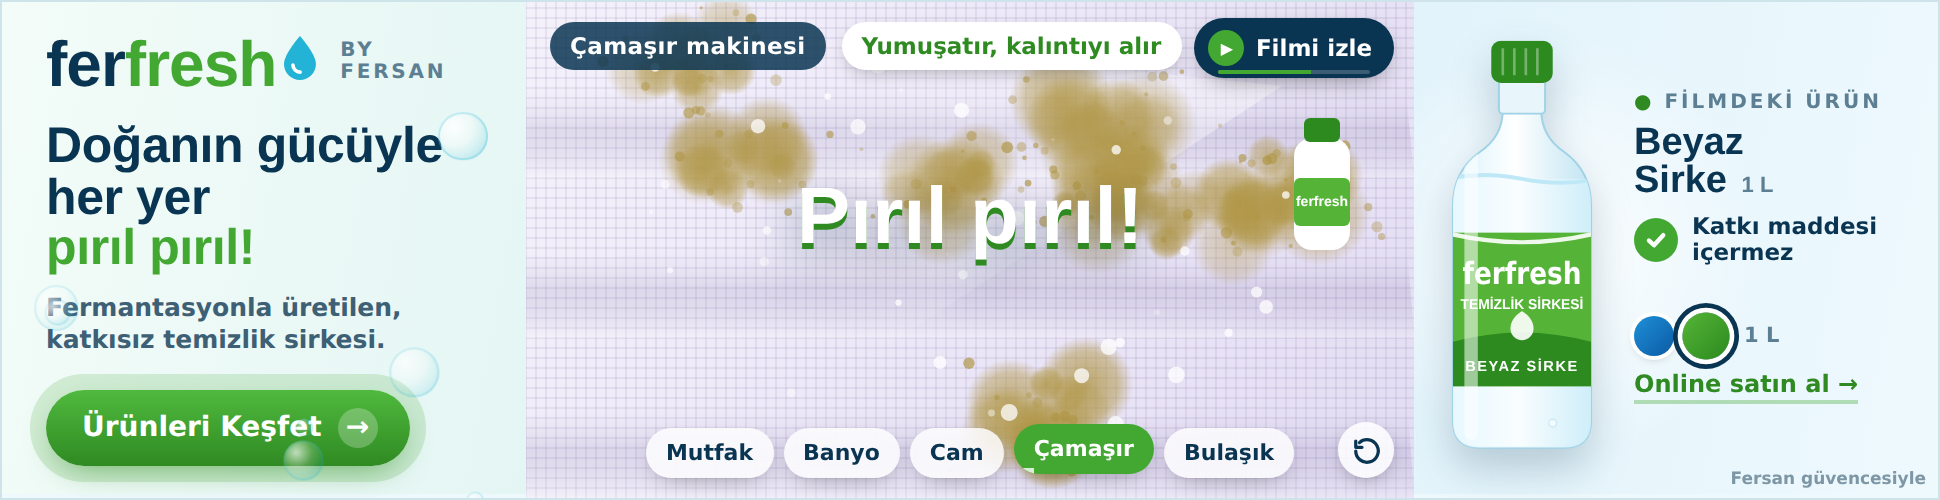
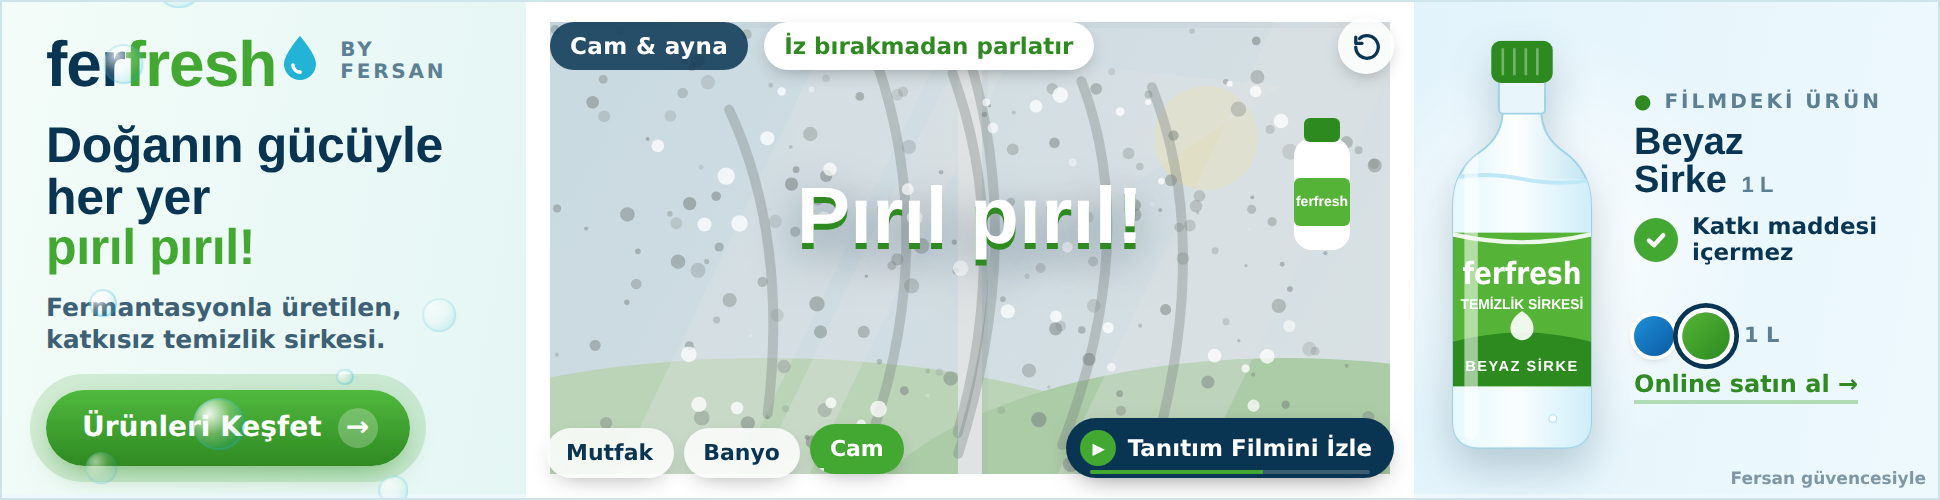
Ferfresh masthead: tanıtım filmi en fazla 3 bölüm (Mutfak, Banyo, Cam), 'Tanıtım Filmini İzle' butonu, sahne 1 buton yerleşimi
Claude-Session: https://claude.ai/code/session_01CRNQWQQrCXkKVvw3zbSMDp

diff --git a/ferfresh-masthead/index.html b/ferfresh-masthead/index.html
@@ -11,14 +11,14 @@
 <script>
 /* ==========================================================================
    FERFRESH – 970x250 İNTERAKTİF MASTHEAD
-   Tek bir KAMPANYA FİLMİ iki sahnede kesintisiz oynar:
+   Tek bir TANITIM FİLMİ (en fazla 3 bölüm) iki sahnede kesintisiz oynar:
 
    SAHNE 1 – Oyun: Ekran kirli gelir; kullanıcı sürükleyerek siler ve altta
-     oynayan kampanya filmini ortaya çıkarır. Oda sekmeleri filmin
+     oynayan tanıtım filmini ortaya çıkarır. Oda sekmeleri filmin
      bölümleridir (tıklayınca o bölüme atlar). Sağdaki ürün, filmde o an
      kullanılan ürünle eşleşir.
    GEÇİŞ – Köpüklü sünger silme efekti (otomatik: autoToVideosMs · elle:
-     "▶ Filmi izle" butonu). Film aynı saniyeden devam eder.
+     "▶ Tanıtım Filmini İzle" butonu). Film aynı saniyeden devam eder.
    SAHNE 2 – Film penceresi: Solda kampanya mesajı + "Keşfet"; sağda büyük
      film penceresi, bölüm listesi, tıklanabilir bölümlü zaman çubuğu ve
      "Bu sahnede: <ürün> · İncele" alışveriş etiketi.
@@ -37,16 +37,14 @@ var CONFIG = {
   fit: 'blur',                 // 'blur' (dikey kaynak) | 'cover' (yatay kurgu)
   autoToVideosMs: 15000,       // açılıştan kaç ms sonra film sahnesine geçilsin (0 = otomatik geçme)
   campaign: {
-    src: '',                   // tek parça kampanya filmi (mp4)
+    src: '',                   // tek parça tanıtım filmi (mp4)
     poster: '',
     duration: 0,               // boşsa videodan okunur
     chapterSec: 6,             // video yokken her bölümün yer tutucu süresi (sn)
-    chapters: [
+    chapters: [                // en fazla 3 bölüm
       { room:'mutfak',  title:'Tezgâhta yağ lekesi',   product:0, start:0,  src:'', poster:'' },
       { room:'banyo',   title:'Bataryada kireç',       product:0, start:6,  src:'', poster:'' },
-      { room:'cam',     title:'İz bırakmayan camlar',  product:1, start:12, src:'', poster:'' },
-      { room:'camasir', title:'Doğal yumuşaklık',      product:1, start:18, src:'', poster:'' },
-      { room:'bulasik', title:'Pırıl pırıl bardaklar', product:1, start:24, src:'', poster:'' }
+      { room:'cam',     title:'İz bırakmayan camlar',  product:1, start:12, src:'', poster:'' }
     ]
   },
   rooms: [
@@ -55,11 +53,7 @@ var CONFIG = {
     { id:'banyo',   label:'Banyo',   title:'Banyo & armatür',  claim:'Kireci kolayca giderir',       color:'#1fa6cc',
       pattern:'tile',   base:['#eef8fc','#d2eaf4'], grout:'#b5d6e5', stain:'160,150,118' },
     { id:'cam',     label:'Cam',     title:'Cam & ayna',       claim:'İz bırakmadan parlatır',       color:'#3c86dc',
-      pattern:'glass',  base:['#bfe6f7','#eef9fd'], grout:'#ffffff', stain:'120,128,126' },
-    { id:'camasir', label:'Çamaşır', title:'Çamaşır makinesi', claim:'Yumuşatır, kalıntıyı alır',    color:'#8a6bd0',
-      pattern:'fabric', base:['#f4f1fb','#e3ddf3'], grout:'#cfc6e8', stain:'176,150,70' },
-    { id:'bulasik', label:'Bulaşık', title:'Bulaşık makinesi', claim:'Bardak ve tabakları parlatır', color:'#43a832',
-      pattern:'plate',  base:['#2b7f9c','#1d5f78'], grout:'#ffffff', stain:'140,96,48' }
+      pattern:'glass',  base:['#bfe6f7','#eef9fd'], grout:'#ffffff', stain:'120,128,126' }
   ],
   products: [
     { name:'Karbonatlı<br>Temizlik Sirkesi', size:'500 ml', tag:'KARBONATLI', lab:'#1e90d8', lab2:'#0b5aa3', cap:'#0b5aa3' },
@@ -152,7 +146,7 @@ button{font:inherit;border:0;background:none;color:inherit;cursor:pointer}
 .cap .t{background:rgba(10,53,82,.85);color:#fff;font-weight:800;font-size:11.5px;padding:5px 10px;border-radius:999px;letter-spacing:.2px}
 .cap .c{background:#fff;color:var(--green2);font-weight:800;font-size:11.5px;padding:5px 10px;border-radius:999px;box-shadow:0 3px 10px -4px rgba(0,0,0,.4)}
 
-.rooms{position:absolute;left:0;right:0;bottom:10px;z-index:7;display:flex;justify-content:center;gap:5px;
+.rooms{position:absolute;left:10px;bottom:10px;z-index:7;display:flex;gap:5px;
   opacity:0;transform:translateY(10px);transition:.45s .2s;pointer-events:none}
 .cleared .rooms{opacity:1;transform:none;pointer-events:auto}
 .rooms button{position:relative;overflow:hidden;font-size:11px;font-weight:800;color:var(--navy);
@@ -162,7 +156,7 @@ button{font:inherit;border:0;background:none;color:inherit;cursor:pointer}
 .rooms button.on{background:var(--green);color:#fff}
 .rooms button .bar{position:absolute;left:0;bottom:0;height:3px;width:0;background:rgba(255,255,255,.8)}
 
-.vbtn{position:absolute;right:10px;top:10px;z-index:9;display:inline-flex;align-items:center;gap:6px;background:var(--navy);color:#fff;
+.vbtn{position:absolute;right:10px;bottom:10px;z-index:9;display:inline-flex;align-items:center;gap:6px;background:var(--navy);color:#fff;
   font-size:11.5px;font-weight:800;padding:6px 11px 6px 7px;border-radius:999px;box-shadow:0 4px 14px -6px rgba(0,0,0,.6);transition:background .2s,transform .2s}
 .vbtn:hover{background:#12507a;transform:translateY(-1px)}
 .vbtn i{width:18px;height:18px;border-radius:50%;background:var(--green);display:grid;place-items:center;font-style:normal;font-size:8px;padding-left:1px}
@@ -171,7 +165,7 @@ button{font:inherit;border:0;background:none;color:inherit;cursor:pointer}
 .vbtn .cd b.run{animation:cd linear forwards}
 @keyframes cd{to{transform:scaleX(1)}}
 
-.replay{position:absolute;right:10px;bottom:10px;z-index:7;width:28px;height:28px;border-radius:50%;
+.replay{position:absolute;right:10px;top:10px;z-index:7;width:28px;height:28px;border-radius:50%;
   background:rgba(255,255,255,.85);display:grid;place-items:center;opacity:0;transition:.3s;box-shadow:0 3px 10px -4px rgba(0,0,0,.4);pointer-events:none}
 .cleared .replay{opacity:1;pointer-events:auto}
 .replay:hover{transform:rotate(-60deg)}
@@ -291,23 +285,23 @@ button{font:inherit;border:0;background:none;color:inherit;cursor:pointer}
 .bigplay svg{width:22px;height:22px;fill:var(--navy);margin-left:3px}
 .paused .bigplay{opacity:1;transform:none;pointer-events:auto}
 
-.chap{position:absolute;left:836px;top:22px;width:124px;height:206px;z-index:3;display:flex;flex-direction:column;gap:4px;
+.chap{position:absolute;left:836px;top:30px;width:124px;height:191px;z-index:3;display:flex;flex-direction:column;gap:4px;
   opacity:0;transform:translateX(16px);transition:.5s .65s}
 .in .chap{opacity:1;transform:none}
 .chap h3{font-size:9px;font-weight:800;letter-spacing:1.6px;color:rgba(255,255,255,.6);margin:0 0 1px 2px}
-.ch{position:relative;display:flex;align-items:center;gap:6px;height:35px;padding:3px;border-radius:8px;color:#fff;text-align:left;
+.ch{position:relative;display:flex;align-items:center;gap:7px;height:54px;padding:4px;border-radius:9px;color:#fff;text-align:left;
   background:rgba(255,255,255,.06);transition:background .2s}
 .ch:hover{background:rgba(255,255,255,.14)}
 .ch.on{background:rgba(255,255,255,.18)}
-.ch .th{position:relative;flex:none;width:46px;height:29px;border-radius:5px;overflow:hidden}
+.ch .th{position:relative;flex:none;width:62px;height:46px;border-radius:6px;overflow:hidden}
 .ch .th canvas,.ch .th img{position:absolute;inset:0;width:100%;height:100%;object-fit:cover;display:block}
 .ch.on .th{box-shadow:0 0 0 2px var(--green)}
 .ch .th::after{content:"";position:absolute;left:50%;top:50%;margin:-5px 0 0 -3px;border-left:8px solid rgba(255,255,255,.95);border-top:5px solid transparent;border-bottom:5px solid transparent;filter:drop-shadow(0 1px 2px rgba(0,0,0,.6))}
 .ch.on .th::after{display:none}
 .ch .tx{display:flex;flex-direction:column;line-height:1.1;min-width:0}
-.ch .tx b{font-size:11px;font-weight:800}
-.ch .tx small{font-size:9px;font-weight:700;opacity:.65;font-variant-numeric:tabular-nums}
-.ch .pr{position:absolute;left:55px;right:8px;bottom:4px;height:2px;border-radius:2px;background:rgba(255,255,255,.15);overflow:hidden;opacity:0}
+.ch .tx b{font-size:12px;font-weight:800}
+.ch .tx small{white-space:nowrap;font-size:9.5px;font-weight:700;opacity:.65;font-variant-numeric:tabular-nums}
+.ch .pr{position:absolute;left:73px;right:8px;bottom:7px;height:2px;border-radius:2px;background:rgba(255,255,255,.15);overflow:hidden;opacity:0}
 .ch.on .pr{opacity:1}
 .ch .pr i{position:absolute;left:0;top:0;bottom:0;width:0;background:var(--green)}
 
@@ -332,7 +326,7 @@ button{font:inherit;border:0;background:none;color:inherit;cursor:pointer}
 <div id="ad" role="link" tabindex="0" aria-label="Ferfresh – doğal gücüyle her yer pırıl pırıl. Ürünleri keşfet.">
 
 <!-- Kampanya filmi: tek medya katmanı, sahneler arasında taşınır -->
-<div id="media" aria-label="Ferfresh kampanya filmi">
+<div id="media" aria-label="Ferfresh tanıtım filmi">
   <video id="fBlur" muted playsinline preload="auto" aria-hidden="true"></video>
   <video id="fMain" muted playsinline preload="auto"></video>
   <canvas id="fScene" width="888" height="500" aria-hidden="true"></canvas>
@@ -365,14 +359,14 @@ button{font:inherit;border:0;background:none;color:inherit;cursor:pointer}
     <div class="hint">
       <b>Sil, farkı gör!</b>
       <svg class="arrows" viewBox="0 0 120 18"><path d="M4 9 Q 30 -4 60 9 T 116 9"/></svg>
-      <small>&#9995; Sürükle, kampanya filmini ortaya çıkar</small>
+      <small>&#9995; Sürükle, tanıtım filmini ortaya çıkar</small>
     </div>
     <div class="cap"><span class="t" id="capT">Mutfak tezgâhı</span><span class="c" id="capC">Yağ lekelerini çözer</span></div>
     <button class="replay" id="replay" data-noexit aria-label="Yeniden kirlet ve tekrar dene">
       <svg viewBox="0 0 24 24" fill="none" stroke="#0a3552" stroke-width="2.6" stroke-linecap="round" stroke-linejoin="round"><path d="M3 12a9 9 0 1 0 3-6.7"/><path d="M3 4v5h5"/></svg>
     </button>
     <nav class="rooms" id="rooms" data-noexit aria-label="Film bölümleri"></nav>
-    <button class="vbtn" id="vbtn" data-noexit aria-label="Kampanya filmini büyük izle"><i>&#9654;</i>Filmi izle<span class="cd"><b id="cdBar"></b></span></button>
+    <button class="vbtn" id="vbtn" data-noexit aria-label="Tanıtım filmini büyük izle"><i>&#9654;</i>Tanıtım Filmini İzle<span class="cd"><b id="cdBar"></b></span></button>
     <div class="toast" id="toast">Pırıl pırıl!</div>
   </section>
 
@@ -428,7 +422,7 @@ button{font:inherit;border:0;background:none;color:inherit;cursor:pointer}
       <span class="by">by Fersan</span>
     </div>
     <h2 class="hl"><span>Evin her köşesinde</span><span><em>doğal ferahlık!</em></span></h2>
-    <p class="sub">Ferfresh kampanya filmini izle; mutfaktan banyoya doğal temizliği keşfet.</p>
+    <p class="sub">Ferfresh tanıtım filmini izle; mutfaktan banyoya doğal temizliği keşfet.</p>
     <div class="acts">
       <button class="cta" data-exit="discover">Keşfet <i>&rarr;</i></button>
       <button class="again" id="again" data-noexit>
@@ -441,7 +435,7 @@ button{font:inherit;border:0;background:none;color:inherit;cursor:pointer}
   <div class="panel" aria-hidden="true"></div>
   <div class="duo" id="duo" aria-hidden="true"></div>
 
-  <span class="badge">KAMPANYA FİLMİ</span>
+  <span class="badge">TANITIM FİLMİ</span>
   <div class="player" id="player" data-exit="video">
     <!-- #media buraya taşınır -->
     <div class="ptop"><span class="room" id="pRoom">MUTFAK</span><span class="ttl" id="pTitle"></span><span class="tm" id="pTime">0:00 / 0:30</span></div>
@@ -672,7 +666,7 @@ var Film=(function(){
   var L={ch:[],time:[],state:[],layout:[]};
   media.classList.add(blur?'fit-blur':'fit-cover');
   if (C.poster) vm.poster=C.poster;
-  C.chapters.forEach(function(c){ segs.push({c:c, room:roomById(c.room), d:c.dur||C.chapterSec||6, fail:false}); });
+  C.chapters.slice(0,3).forEach(function(c){ segs.push({c:c, room:roomById(c.room), d:c.dur||C.chapterSec||6, fail:false}); });
 
   function layout(){
     total=0;
@@ -925,7 +919,7 @@ var Product=(function(){
       var g=document.createElement('div'); g.className='sg'; g.style.flex=String(s.dur); g.innerHTML='<i></i>';
       g.title=s.room.label+' · '+fmt(s.start);
       segsEl.appendChild(g); bars.push(g.firstChild);
-      if (items[i]) items[i].querySelector('small').textContent=fmt(s.start)+' – '+fmt(s.start+s.dur);
+      if (items[i]) items[i].querySelector('small').textContent='▶ '+fmt(s.start);
     });
     $('#pTime').textContent=fmt(Film.time())+' / '+fmt(total);
   }
